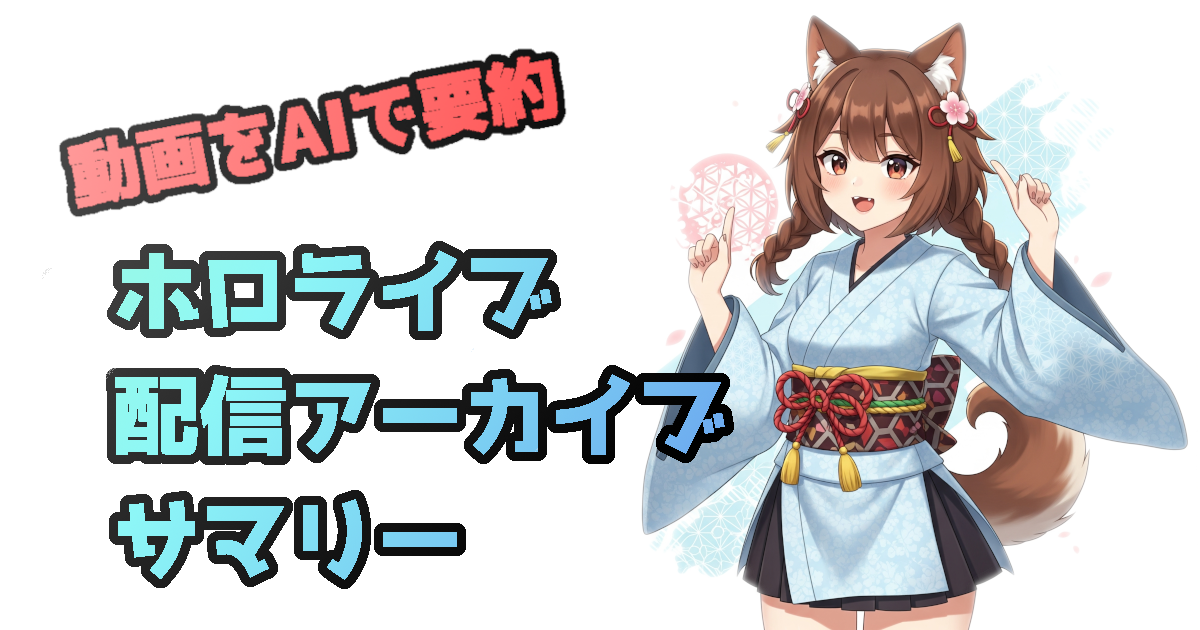
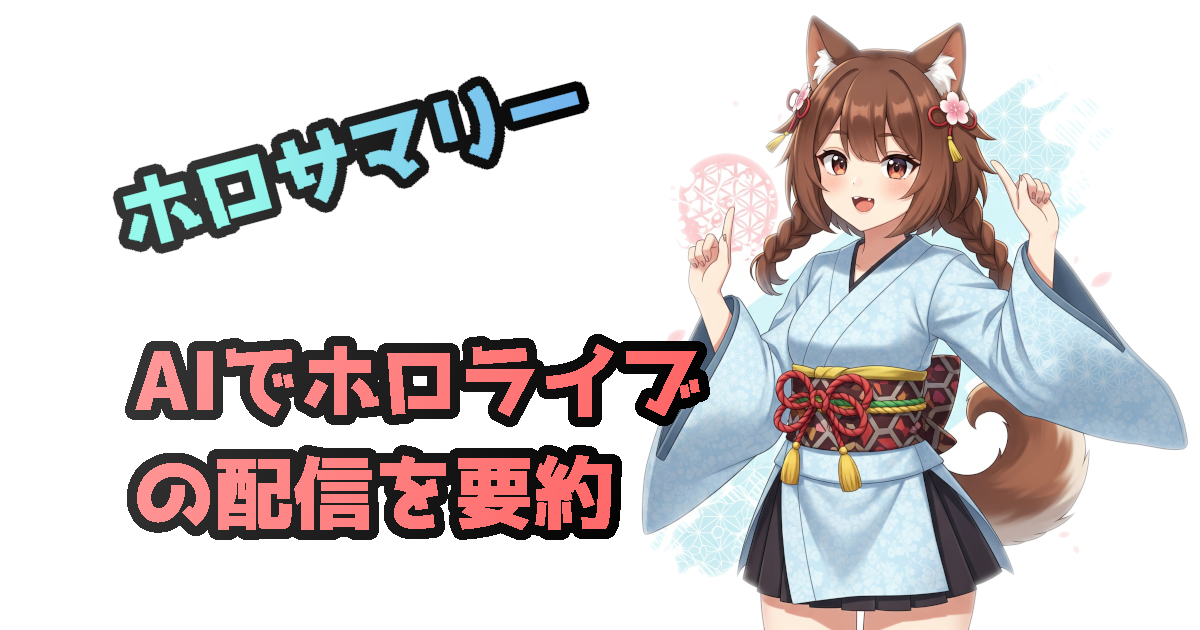
Refactor: Shorten site name to "ホロサマリー"
Replaces "ホロライブ配信アーカイブサマリー" with "ホロサマリー" across all relevant files, including README, documentation, HTML titles, meta tags, and manifest.

Changed region(s): [[0.0308, 0.0603, 0.6167, 0.9349]]

diff --git a/src/index.html b/src/index.html
@@ -3,10 +3,10 @@
 <head>
     <meta charset="UTF-8">
     <meta name="viewport" content="width=device-width, initial-scale=1.0">
-    <title>ホロライブの配信をAIで要約 - ホロライブ配信アーカイブサマリー</title>
+    <title>AIでホロライブの配信を要約 - ホロサマリー</title>
     <meta name="description" content="本サービスは数多あるホロライブ配信アーカイブの概要や見どころを短時間で把握し、興味のある配信を見つけやすくするサイトです。">
-    <meta property="og:site_name" content="ホロライブ配信アーカイブサマリー">
-    <meta property="og:title" content="ホロライブの配信をAIで要約 - ホロライブ配信アーカイブサマリー">
+    <meta property="og:site_name" content="ホロサマリー">
+    <meta property="og:title" content="AIでホロライブの配信を要約 - ホロサマリー">
     <meta property="og:description" content="本サービスは数多あるホロライブ配信アーカイブの概要や見どころを短時間で把握し、興味のある配信を見つけやすくするサイトです。">
     <meta property="og:type" content="website">
     <meta property="og:url" content="https://aegisfleet.github.io/live-stream-summarizer/">
@@ -42,7 +42,7 @@
 <body>
     <header>
         <div class="ogp-image-container">
-            <a href="#" id="top-logo-link"><img src="images/ogp.png" alt="ホロライブ配信アーカイブサマリー"></a>
+            <a href="#" id="top-logo-link"><img src="images/ogp.png" alt="ホロサマリー"></a>
         </div>
         <section id="site-description" class="collapsible">
             <h2 class="collapsible-trigger">サイト説明</h2>
@@ -107,7 +107,7 @@
     </main>
 
     <footer>
-        <p>&copy; 2025 ホロライブ配信アーカイブサマリー</p>
+        <p>&copy; 2025 ホロサマリー</p>
         <p>Developed by <a href="https://x.com/aegisfleet" target="_blank" rel="noopener noreferrer">ポち</a></p>
         <div class="language-switcher">
             <a href="./" id="lang-ja" class="active">日本語</a> | <a href="en/" id="lang-en">English</a>

diff --git a/src/en/index.html b/src/en/index.html
@@ -10,9 +10,9 @@
     <meta property="og:description" content="This service helps you quickly grasp the overview and highlights of the numerous Hololive stream archives, making it easier to find streams that interest you.">
     <meta property="og:type" content="website">
     <meta property="og:url" content="https://aegisfleet.github.io/live-stream-summarizer/en/">
-    <meta property="og:image" content="https://aegisfleet.github.io/live-stream-summarizer/images/ogp.png">
+    <meta property="og:image" content="https://aegisfleet.github.io/live-stream-summarizer/images/ogp-en.png">
     <meta name="twitter:card" content="summary_large_image">
-    <meta name="twitter:image" content="https://aegisfleet.github.io/live-stream-summarizer/images/ogp.png">
+    <meta name="twitter:image" content="https://aegisfleet.github.io/live-stream-summarizer/images/ogp-en.png">
     <link rel="canonical" href="https://aegisfleet.github.io/live-stream-summarizer/en/" />
     <link rel="alternate" hreflang="ja" href="https://aegisfleet.github.io/live-stream-summarizer/" />
     <link rel="alternate" hreflang="en" href="https://aegisfleet.github.io/live-stream-summarizer/en/" />
@@ -42,7 +42,7 @@
 <body>
     <header>
         <div class="ogp-image-container">
-            <a href="#" id="top-logo-link"><img src="../images/ogp.png" alt="Holo-Summaries"></a>
+            <a href="#" id="top-logo-link"><img src="../images/ogp-en.png" alt="Holo-Summaries"></a>
         </div>
         <section id="site-description" class="collapsible">
             <h2 class="collapsible-trigger">Site Description</h2>

diff --git a/src/templates/detail-page.html b/src/templates/detail-page.html
@@ -3,10 +3,10 @@
 <head>
     <meta charset="UTF-8">
     <meta name="viewport" content="width=device-width, initial-scale=1.0">
-    <title>{{TITLE}} - ホロライブ配信アーカイブサマリー</title>
+    <title>{{TITLE}} - ホロサマリー</title>
     <meta name="description" content="{{DESCRIPTION}}">
     <meta name="keywords" content="{{TAGS}}">
-    <meta property="og:site_name" content="ホロライブ配信アーカイブサマリー">
+    <meta property="og:site_name" content="ホロサマリー">
     <meta property="og:title" content="{{TITLE}}">
     <meta property="og:description" content="{{DESCRIPTION}}">
     <meta property="og:type" content="article">
@@ -34,7 +34,7 @@
 <body>
     <header>
         <div class="ogp-image-container">
-            <a href="#" id="top-logo-link"><img src="../images/ogp.png" alt="ホロライブ配信アーカイブサマリー"></a>
+            <a href="#" id="top-logo-link"><img src="../images/ogp.png" alt="ホロサマリー"></a>
         </div>
     </header>
 
@@ -90,7 +90,7 @@
     </main>
 
     <footer>
-        <p>&copy; 2025 ホロライブ配信アーカイブサマリー</p>
+        <p>&copy; 2025 ホロサマリー</p>
         <p>Developed by <a href="https://x.com/aegisfleet" target="_blank" rel="noopener noreferrer">ポち</a></p>
         <div class="language-switcher">
             <a id="lang-ja" href="./{{VIDEO_ID}}.html" class="active">日本語</a> | <a id="lang-en" href="../en/pages/{{VIDEO_ID}}.html">English</a>

diff --git a/docs/REQUIREMENTS.md b/docs/REQUIREMENTS.md
@@ -77,7 +77,7 @@
 
 ```text
 +----------------------------------------------------------------------+
-| ホロライブ配信アーカイブサマリー                                     |
+| ホロサマリー                                     |
 +----------------------------------------------------------------------+
 | 配信者: [ときのそら] [ロボ子さん] [さくらみこ] [すべて表示] ...       |
 | タグ:   [ゲーム実況] [雑談] [歌枠] [すべて表示] ...                  |
@@ -111,7 +111,7 @@
 
 ```text
 +---------------------------------+
-| ホロライブ配信アーカイブサマリー|
+| ホロサマリー|
 +---------------------------------+
 | ▼ フィルター                    |
 +---------------------------------+

diff --git a/docs/SITE_IMPROVEMENT_PLAN.md b/docs/SITE_IMPROVEMENT_PLAN.md
@@ -238,7 +238,7 @@ class DetailPageManager {
         if (!this.archiveData) return;
         
         // ページタイトルの更新
-        document.title = `${this.archiveData.title} - ホロライブ配信アーカイブサマリー`;
+        document.title = `${this.archiveData.title} - ホロサマリー`;
         
         // メタデータの更新
         this.updateMetaData();

diff --git a/README.md b/README.md
@@ -1,4 +1,4 @@
-# ホロライブ配信アーカイブサマリー
+# ホロサマリー
 
 ![OGP画像](src/images/ogp.png)
 
